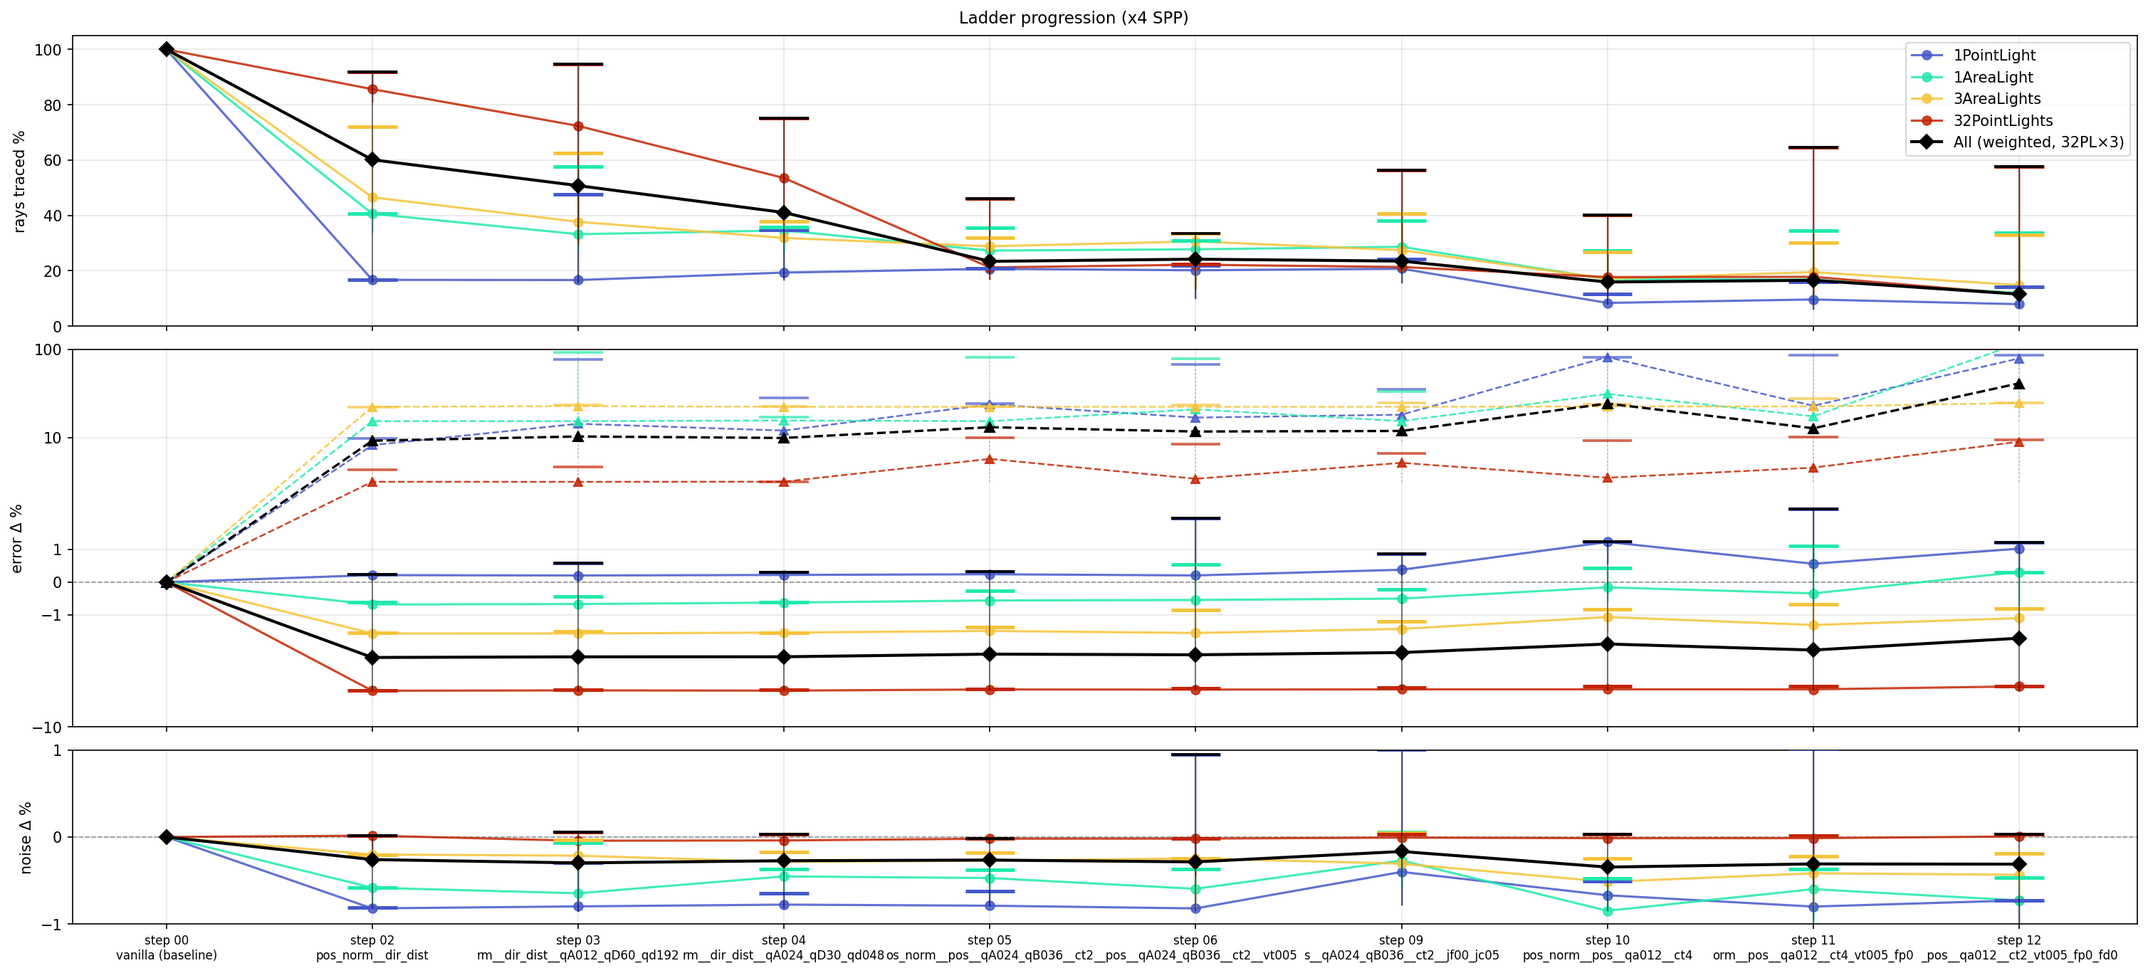
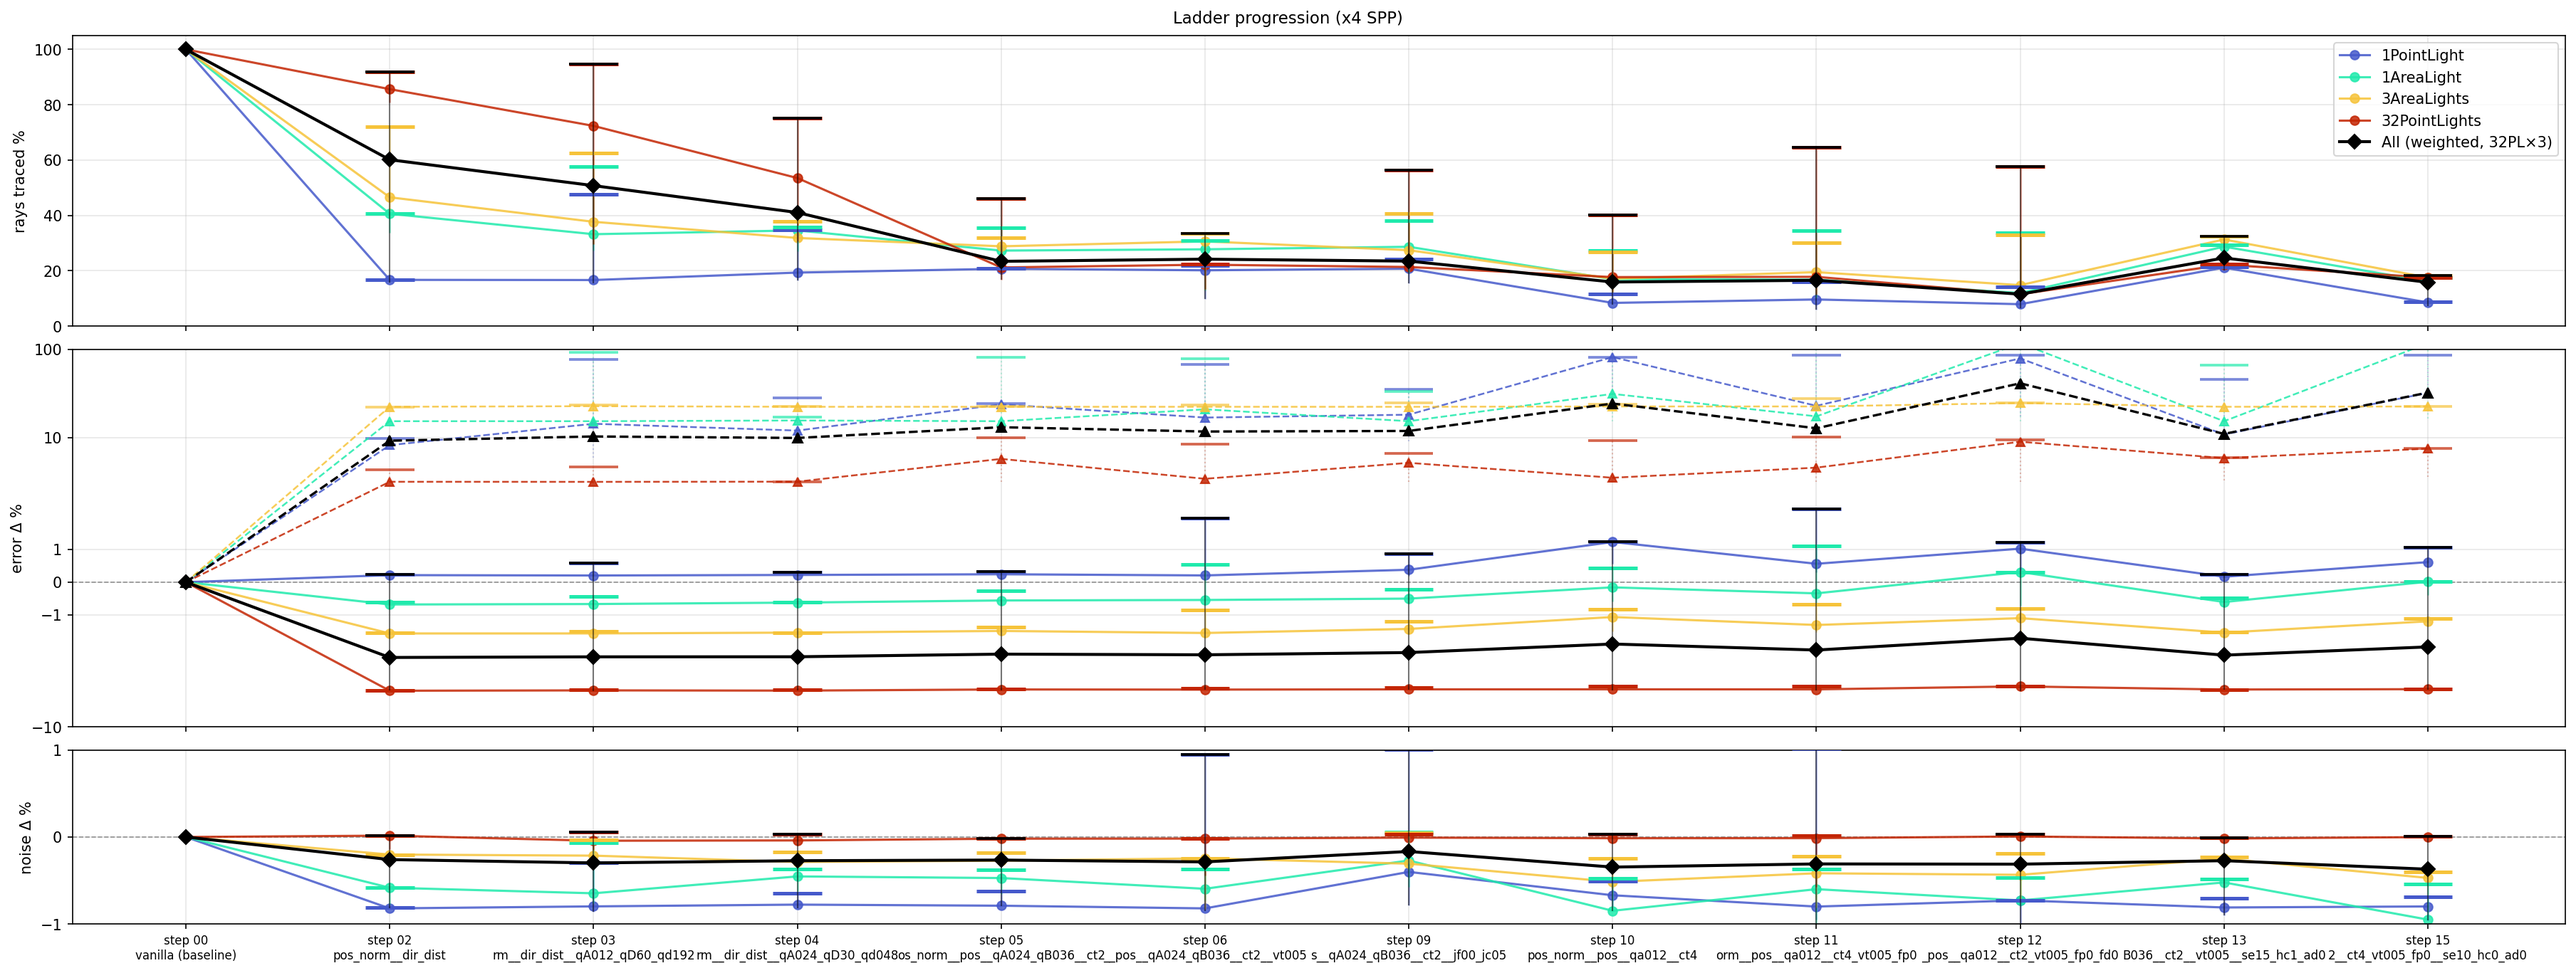
Step 13/15 stderr+hc+ad sweep: negative findings documented
Step 13 (single-level, step-06 lineage): no se/hc/ad combo strictly
beats vt005 baseline. Best x4 candidate (se10+hc) cuts 1PL x4 blob
17→10 but regresses 1PL x1 13→50 (36pt worse). Best worst-case
(se15+ad) balances x1+x4 at 11 on 1PL but breaks 1AL x1 (5→28).
stderr gate is the same topology as vt — tightening trades off the
same way.

Step 15 (multi-level + x16, step-11 lineage): every combo regresses
1PL x4 blob 23→32+. 1PL x16 floor 60-87 across all 16 variants —
same correlation-driven pathology step 12 hit, not fixable by
gate-tightening. 32PL rays preserved (~17.5%).

Both picks.json record no carry with detailed rationale. Step-06
vt005 and step-11 ct4_vt005_fp0 remain the active carries.

Next: correlation-specific defenses (diversity tracking, split-halves)
in memory/project_cell_mean_defenses.md remain the frontier.

diff --git a/docs/devlog/DEVLOG.md b/docs/devlog/DEVLOG.md
@@ -28,6 +28,8 @@ Both row 1 col 3 : error Δ vs GT and row 1 col 9: noise Δ vs GT use the same c
 | 10   | multi-level quant × threshold | multi-level beats single-level                      | multi-level                            |
 | 11   | vt × ct × fp (expanded) on step-10 carry | `vt005` beats `vt010` on every blob at matched 32PL rays; fp≥0.2 regresses rays | `qa012__ct4_vt005_fp0`  |
 | 12   | ct × warmup × force-descend on step-11 carry (x1/x4/x16) | `ct16` + `w=2` cuts 1PL blob 2.4× (41→17) at 2.3× 32PL rays; x16 stress test shows blob still grows 2–5× with SPP (residual bias), force-descend & fp no-ops | `qa012__ct16_vt005_fp0_fd0` (w=2) |
+| 13   | stderr × hierarchical × accel-decay, single-level | **negative**: no variant strictly beats vt005; best-x4 se10+hc cuts 1PL x4 blob 17→10 but regresses x1 13→50 | no carry (keep step-06 vt005) |
+| 15   | stderr × hierarchical × accel-decay, multi-level + x16 | **negative**: every combo regresses 1PL x4 blob 23→32+; x16 floor 60-87 at all combos (correlation pathology persists); 32PL rays preserved | no carry (keep step-11 ct4_vt005_fp0) |
 
 ---
 
